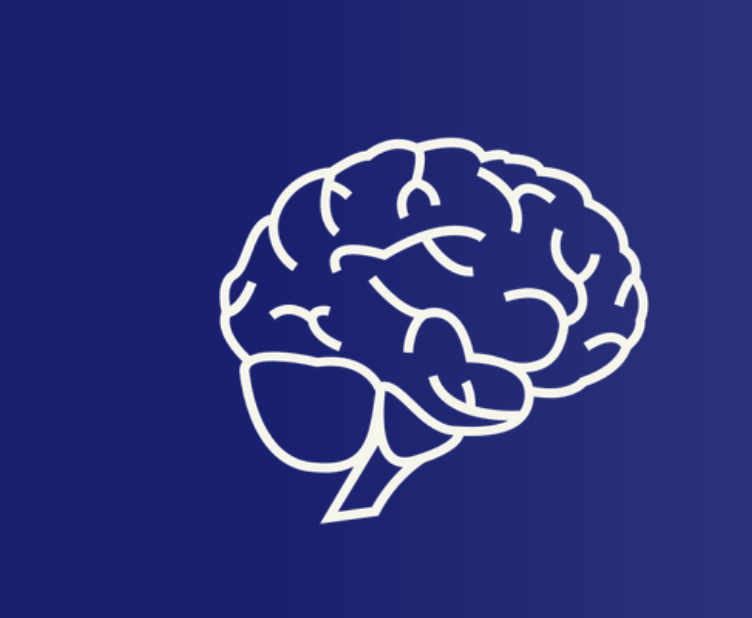
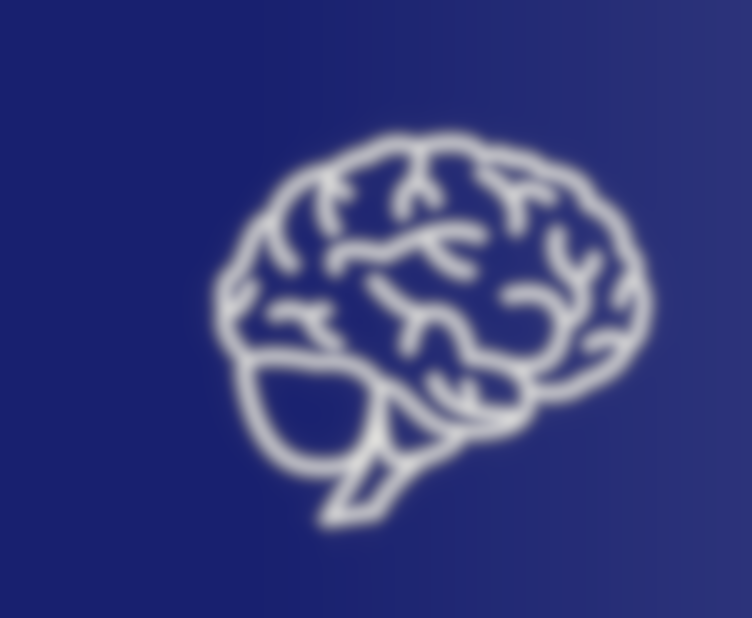
Revised some content, slightly blurred some images so text is easily readable. Added info to about me section.

Changed region(s): [[0.2753, 0.1845, 0.887, 0.8916]]

diff --git a/index.html b/index.html
@@ -49,11 +49,15 @@
 								<h1>Hi, I'm Aidan.</h1>
 							</header>
 							<div class="content">
-								<p>I am a software developer located in Calgary, AB. Experienced with embedded systems, object-oriented programming and game development</p>
+								<p>I am a software developer located in Calgary, AB. I am experienced with embedded systems, object-oriented programming and game development.</p>
 								<ul class="actions">
 									<li><a href="#one" class="button next scrolly">Learn more</a></li>
 								</ul>
 							</div>
+							<ul class="icons">
+								<li><a href="https://github.com/lafffta" class="icon brands alt fa-github" target="_blank" rel="noopener noreferrer"><span class="label">GitHub</span></a></li>
+								<li><a href="https://www.linkedin.com/in/aidan-bjelke/" class="icon brands alt fa-linkedin-in" target="_blank" rel="noopener noreferrer"><span class="label">LinkedIn</span></a></li>
+							</ul>
 						</div>
 					</section>
 
@@ -86,7 +90,7 @@
 									</span>
 									<header class="major">
 										<h3><a href="https://aidanbjelke.com/lumenary" target="_blank" rel="noopener noreferrer" class="link">lumenary</a></h3>
-										<p>Assisted living, Assistive technology.</p>
+										<p>Assisted living, Assistive technology. <br>Research + Design Project</p>
 									</header>
 								</article>
 								<article>
@@ -94,7 +98,7 @@
 										<img src="images/cat.png" alt="" />
 									</span>
 									<header class="major">
-										<h3><a href="https://aidanbjelke.com/flappy_yoyo" target="_blank" rel="noopener noreferrer" class="link">Flappy Yoyo</a></h3>
+										<h3><a href="https://aidanbjelke.com/flappy_yoyo" class="link">Flappy Yoyo</a></h3>
 										<p>A Flappy Bird Clone but with a yoyo and cats (click to play)</p>
 									</header>
 								</article>
@@ -104,12 +108,13 @@
 							<section id="two">
 								<div class="inner">
 									<header class="major">
-										<h2>Massa libero</h2>
+										<h2>About me</h2>
 									</header>
-									<p>Nullam et orci eu lorem consequat tincidunt vivamus et sagittis libero. Mauris aliquet magna magna sed nunc rhoncus pharetra. Pellentesque condimentum sem. In efficitur ligula tate urna. Maecenas laoreet massa vel lacinia pellentesque lorem ipsum dolor. Nullam et orci eu lorem consequat tincidunt. Vivamus et sagittis libero. Mauris aliquet magna magna sed nunc rhoncus amet pharetra et feugiat tempus.</p>
-									<ul class="actions">
-										<li><a href="landing.html" class="button next">Get Started</a></li>
-									</ul>
+									<p>I am currently employed at <a href="https://ingu.com" target="_blank" rel="noopener noreferrer">INGU Solutions</a> as an Embedded Software Developer. I started working at <a href="https://ingu.com" target="_blank" rel="noopener noreferrer">INGU</a> as an intern and continued my work part-time while I finished up my degree. My work there has been great for me, as I have always had an interest in all forms of technology.<br>
+									<br>In my free time, I am an aspiring indie game developer. My interest in technology stems from <b>a lot</b> of time playing video games, and so this is naturally a good area to spend my time on passion projects.</p>
+									<!-- <ul class="actions">
+										<li><a href="resume.html" class="button next">See my resume</a></li>
+									</ul> -->
 								</div>
 							</section>
 
@@ -173,7 +178,7 @@
 						<div class="inner">
 							<ul class="icons">
 								<li><a href="https://github.com/lafffta" class="icon brands alt fa-github" target="_blank" rel="noopener noreferrer"><span class="label">GitHub</span></a></li>
-								<li><a href="https://www.linkedin.com/in/aidan-bjelke-b3044510b/" class="icon brands alt fa-linkedin-in" target="_blank" rel="noopener noreferrer"><span class="label">LinkedIn</span></a></li>
+								<li><a href="https://www.linkedin.com/in/aidan-bjelke/" class="icon brands alt fa-linkedin-in" target="_blank" rel="noopener noreferrer"><span class="label">LinkedIn</span></a></li>
 							</ul>
 							<!-- <ul class="copyright">
 								<li>&copy; Untitled</li><li>Design: <a href="https://html5up.net">HTML5 UP</a></li>

diff --git a/resume.html b/resume.html
@@ -1,0 +1,85 @@
+<!DOCTYPE HTML>
+<!--
+	Forty by HTML5 UP
+	html5up.net | @ajlkn
+	Free for personal and commercial use under the CCA 3.0 license (html5up.net/license)
+-->
+<html>
+	<head>
+		<title>Aidan Bjelke</title>
+		<meta charset="utf-8" />
+		<meta name="viewport" content="width=device-width, initial-scale=1, user-scalable=no" />
+		<link rel="stylesheet" href="assets/css/main.css" />
+		<noscript><link rel="stylesheet" href="assets/css/noscript.css" /></noscript>
+	</head>
+	<body class="is-preload">
+
+		<!-- Wrapper -->
+			<div id="wrapper">
+
+				<!-- Header -->
+					<header id="header" class="alt">
+						<a href="index.html" class="logo"><strong>Aidan</strong> <span>Bjelke</span></a>
+						<!-- <nav>
+							<a href="#menu">Menu</a>
+						</nav> -->
+					</header>
+
+				<!-- Menu -->
+					<!-- <nav id="menu">
+						<ul class="links">
+							<li><a href="index.html">Home</a></li>
+							<li><a href="landing.html">Landing</a></li>
+							<li><a href="generic.html">Generic</a></li>
+							<li><a href="elements.html">Elements</a></li>
+						</ul>
+						<ul class="actions stacked">
+							<li><a href="#" class="button primary fit">Get Started</a></li>
+							<li><a href="#" class="button fit">Log In</a></li>
+						</ul>
+					</nav> -->
+
+				<!-- Main -->
+					<div id="main">
+						<!-- Two -->
+							<!-- Two -->
+							<section id="two">
+								<div class="inner">
+									<header class="major">
+										<h2>About me</h2>
+									</header>
+									<p>yarp</p>
+									<ul class="actions">
+										<li><a href="index.html" class="button next">Back</a></li>
+									</ul>
+								</div>
+							</section>
+
+					</div>
+
+				<!-- Footer -->
+					<footer id="footer">
+						<div class="inner">
+							<ul class="icons">
+								<li><a href="https://github.com/lafffta" class="icon brands alt fa-github" target="_blank" rel="noopener noreferrer"><span class="label">GitHub</span></a></li>
+								<li><a href="https://www.linkedin.com/in/aidan-bjelke/" class="icon brands alt fa-linkedin-in" target="_blank" rel="noopener noreferrer"><span class="label">LinkedIn</span></a></li>
+							</ul>
+							<!-- <ul class="copyright">
+								<li>&copy; Untitled</li><li>Design: <a href="https://html5up.net">HTML5 UP</a></li>
+							</ul> -->
+						</div>
+					</footer>
+
+			</div>
+
+		<!-- Scripts -->
+			<script src="assets/js/jquery.min.js"></script>
+			<script src="assets/js/jquery.scrolly.min.js"></script>
+			<script src="assets/js/jquery.scrollex.min.js"></script>
+			<script src="assets/js/browser.min.js"></script>
+			<script src="assets/js/breakpoints.min.js"></script>
+			<script src="assets/js/util.js"></script>
+			<script src="assets/js/main.js"></script>
+
+	</body>
+</html>
